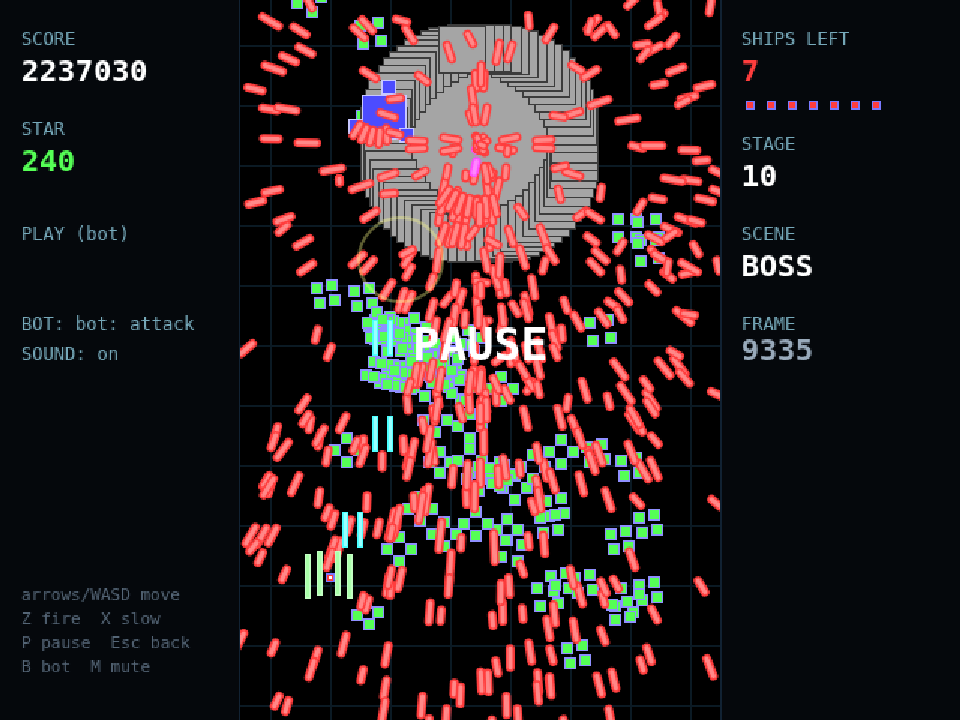
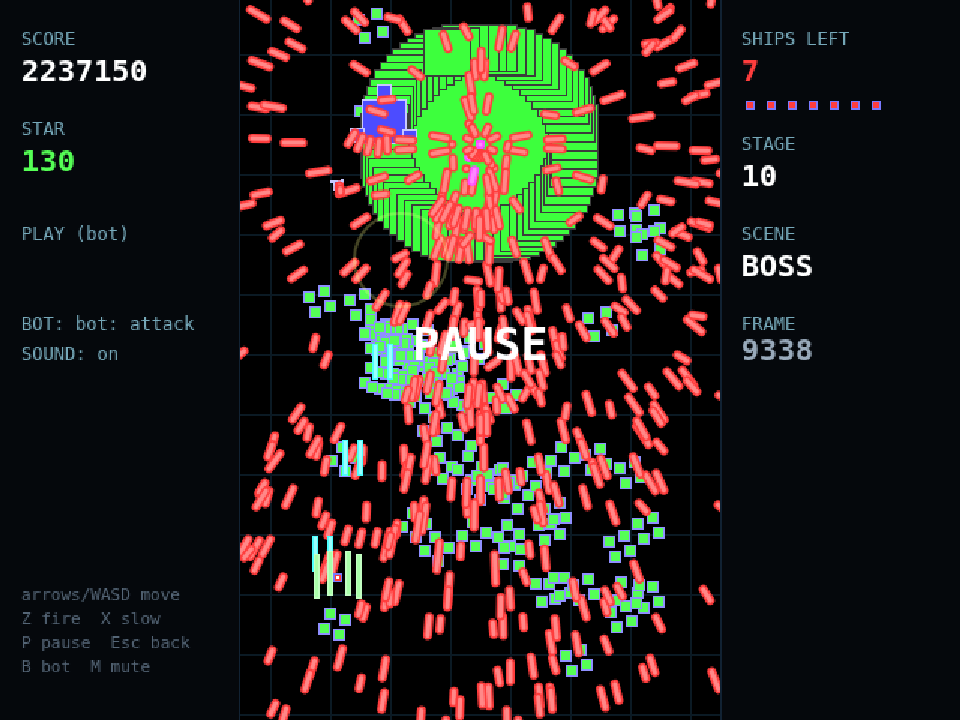
Page: the bot seed row needs no unit text (its placeholder says random)

diff --git a/web/play.js b/web/play.js
@@ -460,7 +460,7 @@ function initPersona() {
     Object.assign(inp, { type: 'number', id: 'knob-botSeed', min: 1, step: 1, placeholder: 'random' });
     inp.addEventListener('change', () => setKnob('botSeed', inp.value));
     l.title = 'the bot\'s own random generator is seeded from the game\'s seed and this (recorded in the tape); empty = a new random seed every game';
-    l.append(cell('knob-name', 'bot seed'), inp, cell('knob-unit', 'empty = random'));
+    l.append(cell('knob-name', 'bot seed'), inp, cell('knob-unit', ''));
     box.appendChild(l);
 }
 
